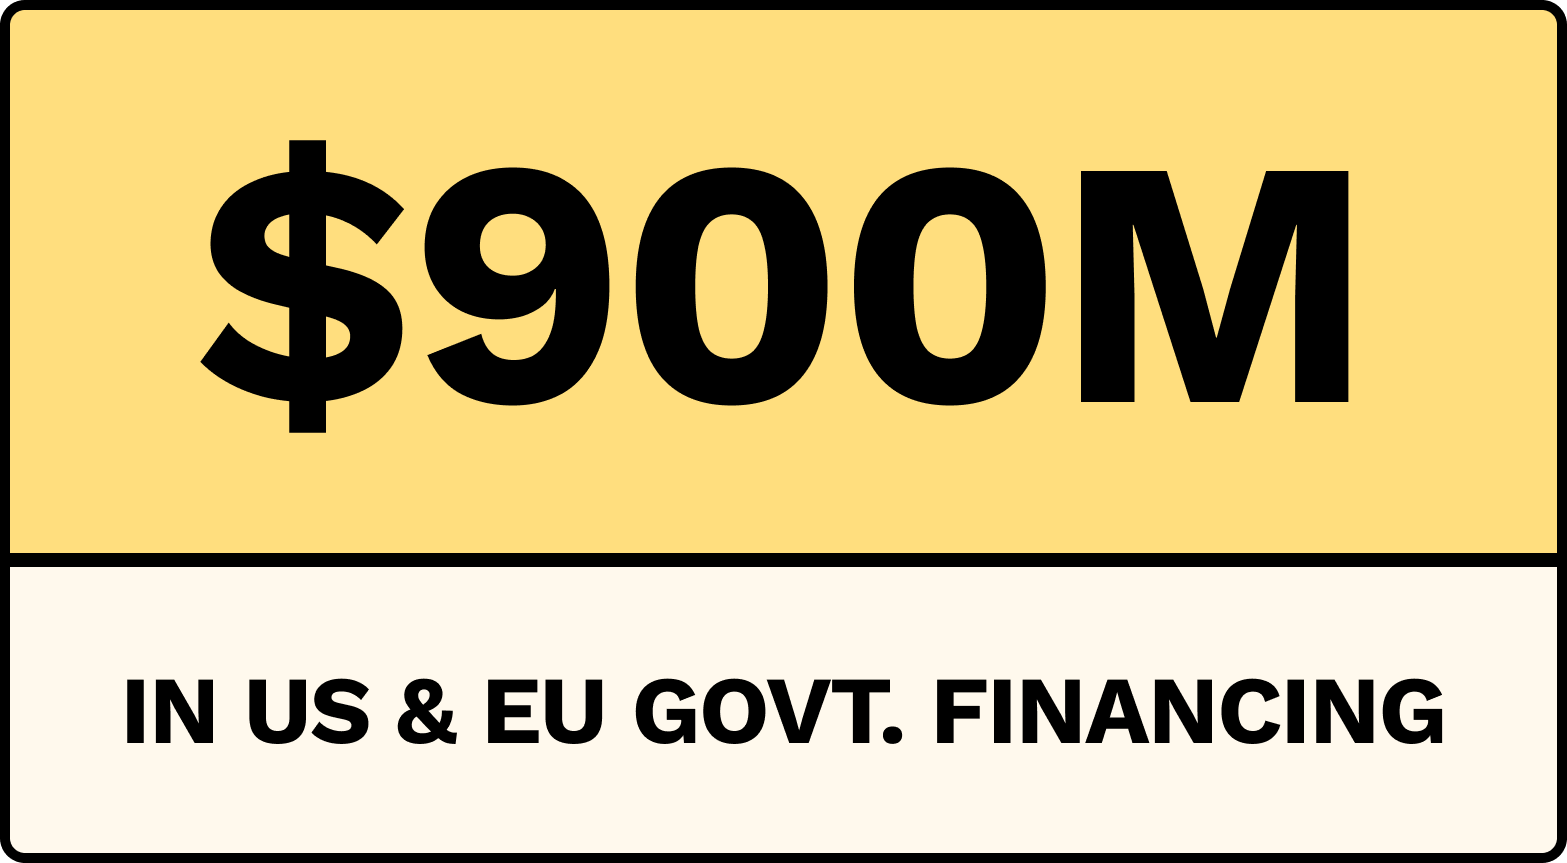
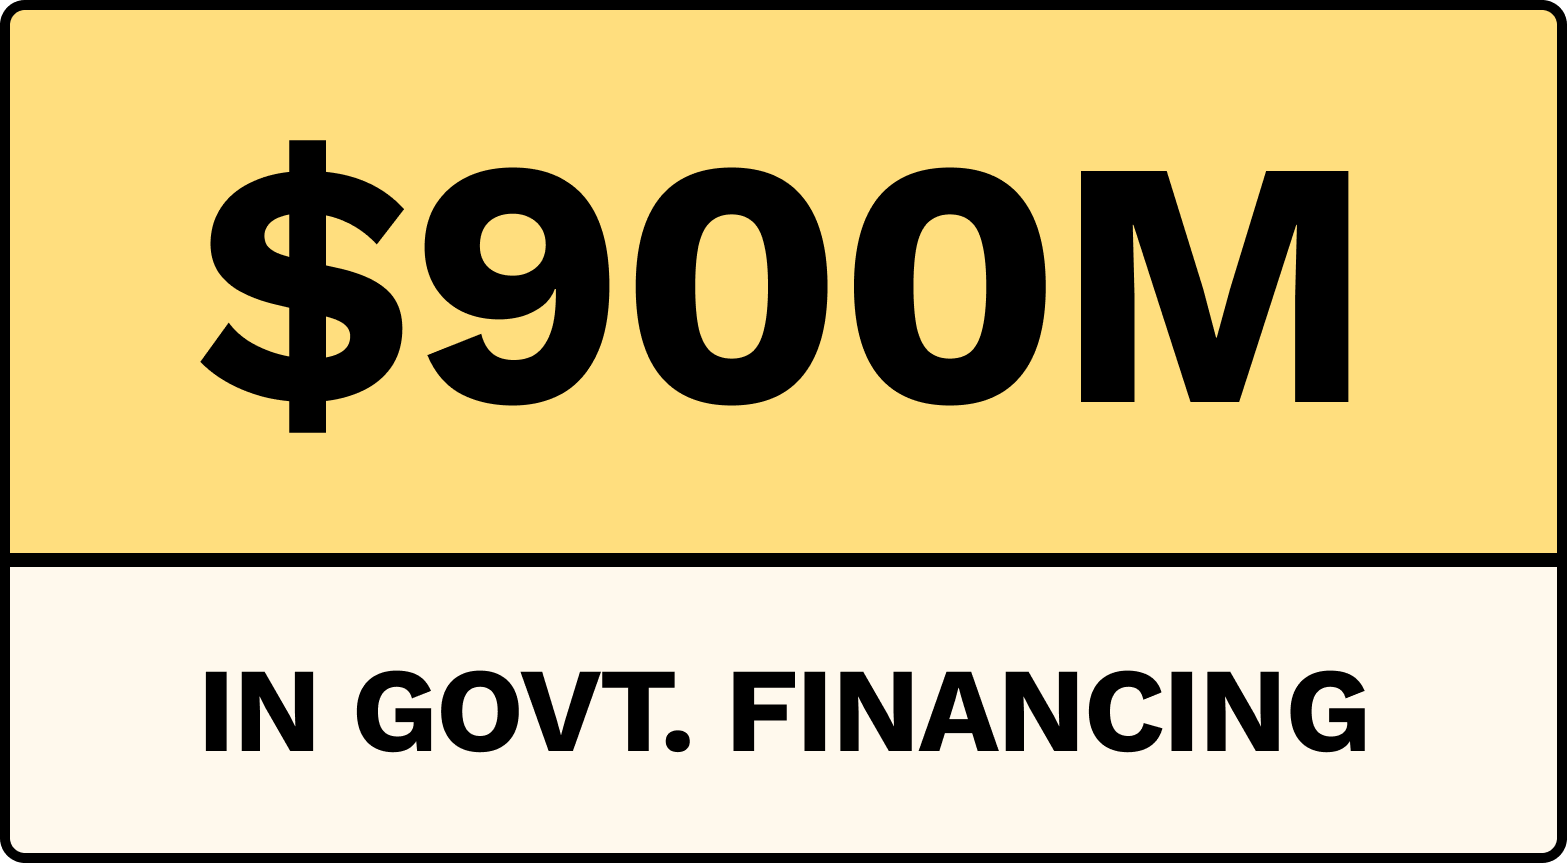
fdr2

Changed region(s): [[0.0613, 0.7532, 0.919, 0.8737]]

diff --git a/src/components/Team.js b/src/components/Team.js
@@ -13,7 +13,7 @@ const Team = props => (
             <Bio
                 name="Mohan Ramani"
                 position="Managing Director"
-                text="Mohan is an experienced entrepreneur who has built and managed companies in the technology, manufacturing, government and financial services sectors. He has extensive international experience in sales and business development, P&L management, strategy development, and execution with both start-up and mature organizations in the United States, Europe and India. Over the last decade, he has helped deliver significant enterprise value for clients by delivering significant business development opportunities with large enterprise customers, establishing effective distribution channels in new markets, and expanding their market share in their existing markets. As Founder and Managing Director at Leftfield Services, he brings all of his experience, knowledge and relationships to bear to achieve our clients’ objectives.
+                text="Mohan is an experienced entrepreneur who has built and managed companies in the technology, manufacturing, government and financial services sectors. He has extensive international experience in sales and business development, P&L management, strategy development, and execution with both start-up and mature organizations in the United States, Europe and India. Over the last decade, he has helped deliver significant enterprise value for clients by developing significant business development opportunities with large enterprise customers, establishing effective distribution channels in new markets, and expanding their market share in their existing markets. As Founder and Managing Director at Leftfield Services, he brings all of his experience, knowledge and relationships to bear to achieve our clients’ objectives.
                 "
                 image={require('../images/mohan-image.jpg')}
                 linkedin="https://www.linkedin.com/in/mohan-ramani-4441b8/" />
@@ -31,7 +31,7 @@ const Team = props => (
                 text="LFS will soon announce our Senior Director, North America. He is already actively engaged in assisting our clients in engaging with Federal agencies and in sourcing relevant opportunities in a number of states in the East Coast and the Midwest.  Prior to joining the LFS team, he founded and built a highly successful government affairs consulting firm that supported a broad range of companies with their government contracting and public fund raising efforts. Over 15 years, they delivered significant results for their clients at the Federal level, in 21 states, and dozens of cities and counties. That entity was sold to a much larger international firm. He started as a staff member on the Hill, rapidly rising to become a senior member of staff supporting one of the highest ranked senators in Majority Leadership at that time.  In that role, he worked with hundreds of community & economic development groups, municipal & state leaders, and trade associations. This broad and deep network of long-standing relationships has allowed him to work effectively and successfully with 3 different presidential administrations over the last 2 decades."
                 image={require('../images/tbd.png')} />
             <div className="AdvisorsIntro">
-                <h1>Our Advisory Team</h1>
+                <h1>Advisors</h1>
             </div>
             <Bio
                 image={require('../images/bill-image.jpg')}

diff --git a/src/pages/services.js b/src/pages/services.js
@@ -22,9 +22,6 @@ const ServicesPage = () => (
         LFS specializes in helping companies expand their business development and revenue generation activities in some of the largest economic areas in the world: the United States, the European Union, South East Asia, and India.
         <br />
         <br />
-        The LFS team has 20 years of experience in successfully creating opportunities and winning orders from almost every department and agency of the Federal government, 21 states, and dozens of state agencies and local and municipal governments. Over the last decade, the team has delivered $500 Million in revenues for our clients from government and agency engagements.
-        <br />
-        <br />
         The team has also delivered over $250 Million in revenues for clients from some of the largest global firms in Healthcare, Financial Services, Telecommunications, Defense, and Information Technology.
         <br />
         <br />
@@ -46,6 +43,10 @@ const ServicesPage = () => (
         In addition to the commercial services outlined above, we also assist clients in their government relations and regulatory management.
         <br />
         <br />
+        The LFS team has 20 years of experience in successfully creating opportunities and winning orders from almost every department and agency of the Federal government, 21 states, and dozens of state agencies and local and municipal governments. Over the last decade, the team has delivered $500 Million in revenues for our clients from government and agency engagements.
+        <br />
+        <br />
+
         In that area, the relevant members of the team have:
         <br />
         <br />
@@ -56,7 +57,7 @@ const ServicesPage = () => (
           <li>worked with three different Presidential administrations from both parties</li>
         </ul>
         <p>
-        In the EU, delivered c. €450M in value to clients through a variety of mechanisms including access to low cost debt, infrastructure subsidies, and regulatory guidance.
+        In the EU, delivered €450M in value to clients through a variety of mechanisms including access to low cost debt, infrastructure subsidies, and regulatory guidance.
         </p>
         <p>
           Clients include:

diff --git a/src/pages/index.js b/src/pages/index.js
@@ -40,7 +40,7 @@ const IndexPage = () => (
     <div className="Govt">
       <div className="TwoColText">
         <h1>Government Relations</h1>
-        <p>A service that helps our clients engage more meaningfully and profitably with all levels of government in the US and EU. We help you win government contracts and secure non-dilutive government financing.</p>
+        <p>A service that enables our clients to engage more meaningfully and profitably with all levels of government in the US and EU. We help you win contracts and secure government financing.</p>
         <Link to="/services"><h5>Learn More</h5></Link>
       </div>
       <div className="TwoColImg GovtImgC">

diff --git a/src/components/header.js b/src/components/header.js
@@ -32,7 +32,9 @@ class Header extends React.Component {
         <div className="HeaderGroup">
             <Link to="/"><img src={require('../images/leftfield-logo.png')} width="160" /></Link>
             <div className="NavLinks">
-                <Link to="/services">Services</Link>, <Link to="/team">Team</Link>, <a href="javascript: document.body.scrollIntoView(false);">Contact</a>
+                <Link to="/services">Services</Link> 
+                <Link to="/team">Team</Link> 
+                <a href="javascript: document.body.scrollIntoView(false);">Contact</a>
             </div>
         </div>
       </div>

diff --git a/src/components/TeamPreview.js b/src/components/TeamPreview.js
@@ -28,7 +28,7 @@ const TeamPreview = props => (
                 </div>
             </div>
             <div className="AdvisorsIntroP">
-                <h1>Our Advisory Team</h1>
+                <h1>Advisors</h1>
                 <div className="ACont">
                     <BioPreview
                         image={require('../images/bill-image.jpg')}

diff --git a/src/components/Contact.js b/src/components/Contact.js
@@ -14,7 +14,7 @@ const Contact = props => (
             </div>
             <div className="Email">
                 <h4>Email Us</h4>
-                <p>mohan@leftfield-services.com</p>
+                <p>hello@leftfield-services.com</p>
             </div>
         </div>
     </div>

diff --git a/src/components/Header.css b/src/components/Header.css
@@ -30,7 +30,10 @@
 }
 
 .NavLinks {
-    text-align: right;
+    text-align: center;
+    display: grid;
+    grid-template-columns: 1fr 1fr 1fr;
+
 }
 
 .Header a {
